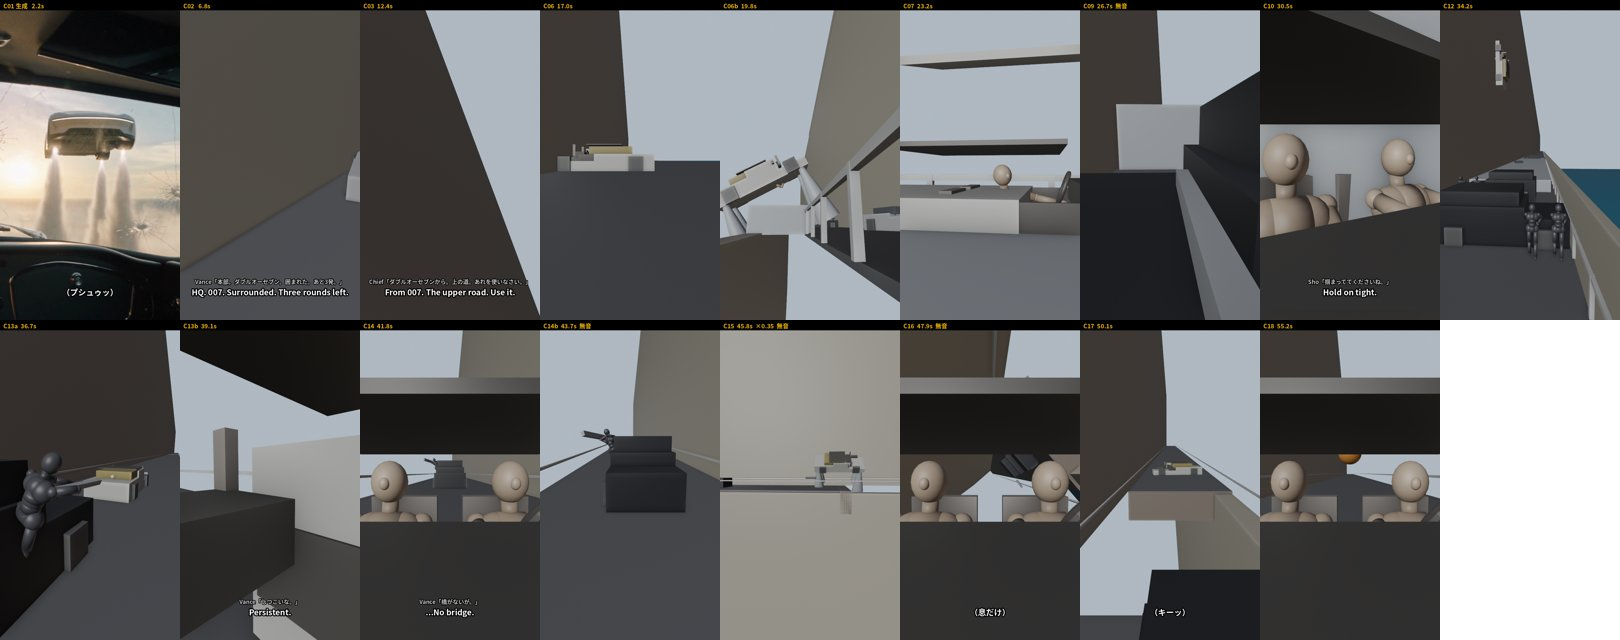
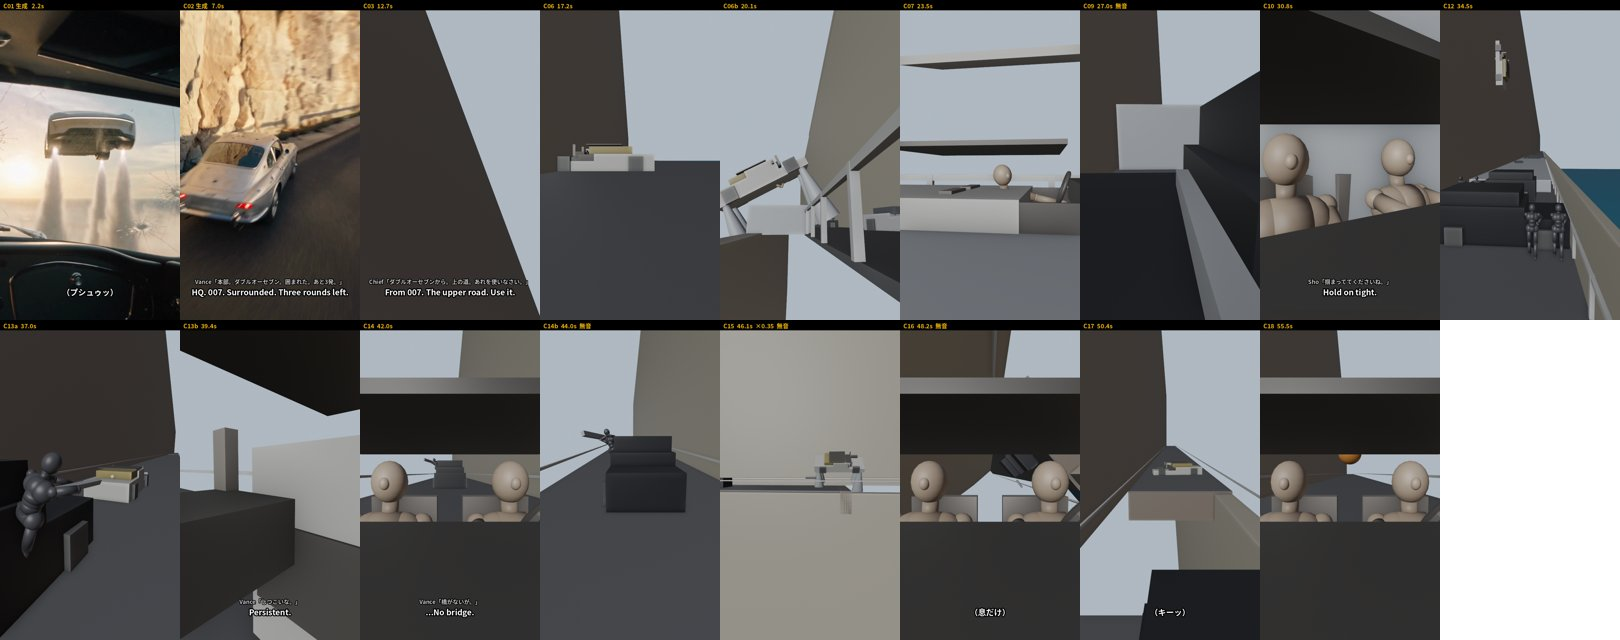
C02 v3 を採用し、C01→C02 をつないだ通しを更新
Claude-Session: https://claude.ai/code/session_01MiY399yeWpJwjLrjjz4zjM

Changed region(s): [[0.0926, 0.0, 0.2469, 0.5]]

diff --git a/previs/editor.html b/previs/editor.html
@@ -3488,12 +3488,12 @@ canvas{touch-action:none}
   "endBlack": 1.5,
   "silences": [
    [
-    25.04,
-    28.29
+    25.33,
+    28.58
    ],
    [
-    42.89,
-    48.65
+    43.18,
+    48.94
    ]
   ],
   "silenceCuts": [
@@ -3732,27 +3732,27 @@ canvas{touch-action:none}
      {
       "t": 0,
       "p": [
-       3,
-       -16,
-       9
+       3.2,
+       -21.0,
+       10.5
       ],
       "r": [
-       62,
+       56,
        0,
-       0
+       2
       ]
      },
      {
       "t": 1.2,
       "p": [
-       3,
-       -16,
-       9
+       3.2,
+       -21.0,
+       10.5
       ],
       "r": [
-       62,
+       56,
        0,
-       0
+       2
       ]
      },
      {
@@ -3769,6 +3769,32 @@ canvas{touch-action:none}
       ]
      },
      {
+      "t": 2.4,
+      "p": [
+       1.7,
+       8.5,
+       3.8
+      ],
+      "r": [
+       72.7,
+       0,
+       23.9
+      ]
+     },
+     {
+      "t": 2.7,
+      "p": [
+       1.5,
+       13.8,
+       2.5
+      ],
+      "r": [
+       71.8,
+       0,
+       52.4
+      ]
+     },
+     {
       "t": 3.0,
       "p": [
        -0.22,
@@ -3782,16 +3808,42 @@ canvas{touch-action:none}
       ]
      },
      {
-      "t": 5,
+      "t": 3.6,
       "p": [
-       -1.46,
-       16.53,
-       1.55
+       -0.8,
+       16.7,
+       1.35
       ],
       "r": [
-       52.1,
+       82.4,
        0,
-       112.6
+       111.4
+      ]
+     },
+     {
+      "t": 4.4,
+      "p": [
+       -1.0,
+       16.5,
+       1.2
+      ],
+      "r": [
+       78.2,
+       0,
+       102.0
+      ]
+     },
+     {
+      "t": 5.0,
+      "p": [
+       -1.05,
+       16.45,
+       1.2
+      ],
+      "r": [
+       87.6,
+       0,
+       104.6
       ]
      }
     ]
@@ -3803,7 +3855,7 @@ canvas{touch-action:none}
    },
    "edit": {
     "in": 0.0,
-    "out": 4.71,
+    "out": 5.0,
     "speed": 1
    },
    "lines": [
@@ -3821,7 +3873,8 @@ canvas{touch-action:none}
      "C02",
      "HQ. 007. Surrounded. Three rounds left."
     ]
-   ]
+   ],
+   "take": "gen/C02_v3.mp4"
   },
   {
    "id": "C03",

diff --git a/previs/shot_length.py b/previs/shot_length.py
@@ -24,7 +24,7 @@ LEAD = {"new": 0.6, "known": 0.4, "cont": 0.25}; TAIL = {"payoff": 0.5, "flow": 
 SPEC = {
  "C01": ("cont", [0.6, 4.7], "外からの着弾で大きなひび(0.6)→ひるむ→顔が右へ→白い車が鼻先から降りてくる→白が窓を埋めきる(生成 v4 で実測)", "flow", [], 1,
          "冒頭は掴み。前方の銃火は C02 で見せ直すので 1 注視ぶんだけ。白で切る＝次への転換"),
- "C02": ("new", [1.2, 4.4], "8人と4台の包囲(寄り始め 1.2 までに読む)→マガジンの3発(3.6–4.4)", "flow", [("C02", 0.4)], 1,
+ "C02": ("new", [1.2, 4.5], "8人と4台の包囲(寄り始め 1.2 までに読む)→手元の真鍮の弾(生成 v3 で 4.4 から)", "payoff", [("C02", 0.4)], 1,
          "台詞の「あと3発」を弾が見えている間に終える"),
  "C03": ("new", [0.8, 6.5], "無線→「上の道」で見上げる→「上。」→戻る→「了解。」→カップを置く", "flow", [("C03a", 0.8), ("C03b", 4.9), ("C03c", 5.8)], 1,
          "台詞が主役のカット。見上げは「上の道」で起きる（台詞に合わせて組み直した）"),

diff --git a/previs/world/build_world.py b/previs/world/build_world.py
@@ -220,7 +220,7 @@ VOICE = json.load(open(os.path.join(P, "voice", "lines.json")))["lines"]
 EDIT = {k: tuple(v) for k, v in DER["edit"].items()}
 END_BLACK = 1.5
 # 採用した生成（あれば通しの動画でグレーボックスの代わりに使う。要点の時刻は生成で測り直して shot_length.py に入れる）
-TAKES = {"C01": "gen/C01_v4.mp4"}
+TAKES = {"C01": "gen/C01_v4.mp4", "C02": "gen/C02_v3.mp4"}
 # 台詞（声＝voice/lines.json の仮の声の長さ）と効果音のメモ。[t, 表示, 長さ, 声 id, 英語字幕]
 SFX = {"C01": [[0.6, "（ガシャッ）"], [2.2, "（プシュゥッ）"]], "C02": [[0.3, "数分前"]], "C06b": [[2.0, "（頂点で無音）"]], "C09": [[0.0, "（音が消える）"]],
        "C14b": [[2.5, "（ボシュッ）"]], "C16": [[1.2, "（息だけ）"]], "C17": [[1.2, "（ドン）"], [1.6, "（キーッ）"], [2.7, "（遠くでバァン）"]]}

diff --git a/prompts/C02.md b/prompts/C02.md
@@ -52,7 +52,7 @@ t4.4-5.0: he pushes the magazine back in with a small firm click; one eyebrow li
 [DO NOT] the coupe never faces the camera, we never see its headlights or grille; nobody inside the coupe shoots and the pistol is never pointed at the window; no extra cars or people; the men never look at the camera; no text or logos; no cuts.
 ```
 
-## v3 の結果（10/19、35 クレジット）— 保留
+## v3 の結果（10/19、35 クレジット）— 採用（本人「一旦これでも問題ない」。弾の見せ方は後で直す候補）
 コマ割り：gen/C02_world_vs_v3.jpg、手元：gen/C02_v3_hands.jpg
 - 直った：クーペは尻からカメラに入り（赤いテール）、窓越しの Vance は右を向き、ハンドルが前。世界と合う
 - ずれ：4.2 秒からカメラが窓を抜けて車内に入る（世界は窓の 0.75m 外で止まる）。窓のひびが消える
